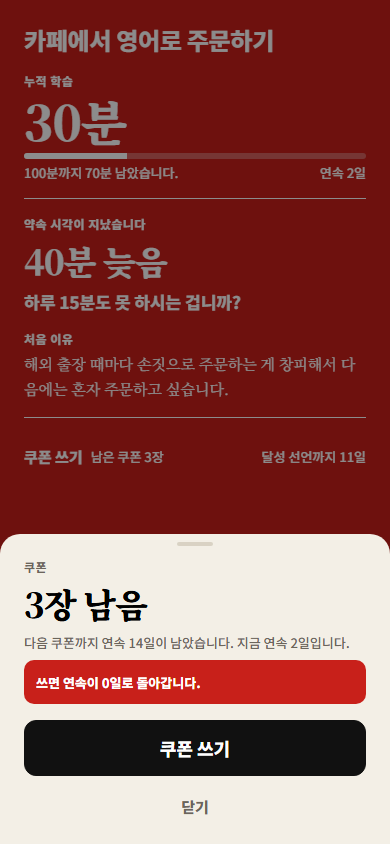
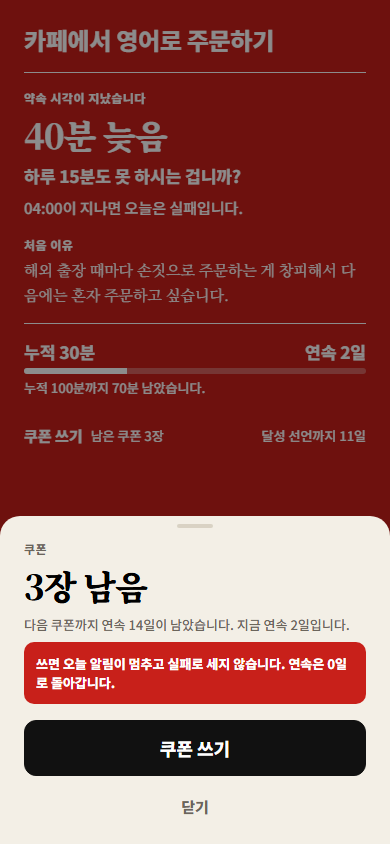
feat(ui): 홈 상태 숫자를 가장 크게, 첫 학습 전 순서 미리보기, 실제 동작에 맞춘 안내 문구
- 홈: 상태 블록을 맨 위로 올리고 누적 학습을 한 줄로 내렸다.
- 첫 학습 전: 0분과 연속 0일을 숨기고 첫 학습 순서와 이번 주 칸 설명을 보인다.
- 쿠폰 효과, 04:00 마감, 대기 중 시작 가능 시점, 첫 B 전환 한 줄을 실제 동작에 맞췄다.
- 쿠폰 쓴 날 홈에 다음 학습 시각을 넣었다.
- 진단 문서, 결정로그 4절, 홈과 쿠폰 화면 상태 다시 촬영.

diff --git a/src/lib/copy.ts b/src/lib/copy.ts
@@ -118,7 +118,7 @@ export const copy = {
   },
 
   home: {
-    total: '누적 학습',
+    totalLine: (m: string) => `누적 ${m}`,
     milestone: (left: number, next: number) => `누적 ${next.toLocaleString()}분까지 ${left.toLocaleString()}분 남았습니다.`,
     streak: (n: number) => `연속 ${n}일`,
     streakLabel: '연속',
@@ -143,6 +143,8 @@ export const copy = {
     restBody: (when: string) => `다음 학습은 ${when}입니다.`,
     waitLabel: '시작까지',
     waitBody: (clock: string, m: number) => `${clock}에 ${m}분 학습합니다.`,
+    // 시작 버튼은 사전 알림(30분 전)부터 생긴다(rules.ts PRE_REMIND_MIN)
+    waitOpen: '30분 전부터 시작하기를 누를 수 있습니다.',
     soonBody: (m: number) => `곧 시작입니다. 오늘은 ${m}분입니다.`,
     graceLabel: '시작 시각이 지났습니다',
     graceBig: (m: number) => `${m}분 경과`,
@@ -150,6 +152,8 @@ export const copy = {
     nagLabel: '약속 시각이 지났습니다',
     nagBig: (m: number) => `${m}분 늦음`,
     nagScratch: (m: number) => `하루 ${m}분도 못 하시는 겁니까?`,
+    // 독촉 60회가 끝나도 판정 시각까지 하면 성공이다(기획서 6절)
+    nagDeadline: '04:00이 지나면 오늘은 실패입니다.',
     reason: '처음 이유',
     resumeLabel: '하다 말고 나가셨습니다',
     resumeBig: (m: number) => `${m}분 남음`,
@@ -176,9 +180,13 @@ export const copy = {
     backNote: '돌아오셨습니다. 연속은 0일부터 다시 시작입니다.',
     // 아래 이번 주 띠(3절)
     week: '이번 주',
+    weekHint: '학습한 날과 못 한 날이 여기 표시됩니다.',
+    // 첫 학습 전 홈의 하루 순서 미리보기
+    firstPlan: '첫 학습 순서',
+    firstPlanReason: '오늘의 이유 쓰기',
     // 첫 홈 코치마크 3개(갭분석 3.1-3). 알림은 시작 시각부터 학습 분만큼 지난 뒤 1분마다 간다(plan.ts)
     tourStart: (m: number) => `이 시각에 학습을 시작합니다. ${m}분 안에 시작하지 않으면 1분마다 알림이 갑니다.`,
-    tourCoupon: '쿠폰을 쓰면 그날은 실패로 세지 않습니다. 연속은 0일이 됩니다.',
+    tourCoupon: '쿠폰은 학습하는 날 홈에서 씁니다. 쓴 날은 알림이 멈추고 실패로 세지 않습니다. 연속은 0일이 됩니다.',
     tourArchive: '학습한 날이 여기 쌓입니다.',
   },
 
@@ -231,7 +239,7 @@ export const copy = {
     idleContinue: '계속하기',
     // 학습 나가기 시트(UXP 3절). 학습 중이라 긁지 않는다. 회고 3분을 채운 뒤에는 leaveFilledBody
     leaveTitle: '학습에서 나가시겠습니까?',
-    leaveBody: (n: number) => `지금 나가면 남은 ${n}분을 채울 때까지 다시 알림이 갑니다.`,
+    leaveBody: (n: number) => `지금 나가면 남은 ${n}분을 채울 때까지 다시 알림이 갑니다. 04:00까지 못 채우면 실패입니다.`,
     leaveFilledBody: '완료하기를 눌러야 오늘 학습이 끝납니다.',
     stay: '계속하기',
     leave: '나가기',
@@ -286,7 +294,7 @@ export const copy = {
     left: (n: number) => `${n}장 남음`,
     next: (d: number) => `다음 쿠폰까지 연속 ${d}일이 남았습니다.`,
     streakNow: (n: number) => `지금 연속 ${n}일입니다.`,
-    warn: '쓰면 연속이 0일로 돌아갑니다.',
+    warn: '쓰면 오늘 알림이 멈추고 실패로 세지 않습니다. 연속은 0일로 돌아갑니다.',
     use: '쿠폰 쓰기',
     close: '닫기',
     none: '남은 쿠폰이 없습니다.',
@@ -296,7 +304,7 @@ export const copy = {
     closedBefore: '첫 학습일부터 쓸 수 있습니다.',
     closedGiveup: '포기 대기 중에는 쓸 수 없습니다.',
     used: '오늘은 쉬십시오.',
-    usedShake: (n: number) => `남은 쿠폰은 ${n}장입니다. 내일은 0일부터입니다.`,
+    usedShake: (n: number) => `오늘 알림은 멈췄습니다. 남은 쿠폰은 ${n}장입니다.`,
     // 완료 화면 쿠폰 획득 카드(갭분석 3.1-11). 숫자는 selectors.couponEarnedOf
     earnedCard: (got: number, next: number) => `연속 ${got}일을 지켜 쿠폰 1장을 받았습니다. 다음은 연속 ${next}일입니다.`,
     home: '홈으로 가기',
@@ -621,9 +629,10 @@ export const copy = {
     rulesTitle: '학습 규칙',
     rulesPlan: '오늘 학습 순서',
     rulesStart: '확인하기',
-    rules: ['화면을 켜 두고 학습하는 동안만 시간이 줄어듭니다.', '2분 동안 입력이 없으면 멈춥니다.', '나가면 남은 시간을 채울 때까지 다시 알림이 갑니다.'],
+    rules: ['화면을 켜 두고 학습하는 동안만 시간이 줄어듭니다.', '2분 동안 입력이 없으면 멈춥니다.', '나가면 남은 시간을 채울 때까지 다시 알림이 갑니다.', '04:00까지 다 채우지 못하면 그날은 실패입니다.'],
     // 6번, 9번 단계 전환 화면의 한 줄
-    phaseB: '상대와 영어로 대화합니다. 막히면 코치가 표현을 알려 줍니다.',
+    // 코치는 영어 답을 고칠 때만 나온다. 한국어로 쓰면 영어로 다시 답하라는 말만 온다(lesson-turn core.ts)
+    phaseB: '상대와 영어로 대화합니다. 틀린 표현은 코치가 고쳐 줍니다.\n모르는 낱말은 쉬운 영어로 풀어 쓰십시오.',
     phaseC: '오늘 배운 표현을 다시 확인합니다.',
     // 7번 첫 코치 모달 아래 한 줄
     coachModal: '닫으면 같은 상황의 새 질문이 옵니다.\n배운 표현을 넣어 답하십시오.',

diff --git a/src/app/(tabs)/index.tsx b/src/app/(tabs)/index.tsx
@@ -14,6 +14,7 @@ import { TextButton } from '@/components/TextButton';
 import { Big, Body, Button, Gauge, Label, Screen, useNow } from '@/components/ui';
 import { WeekStrip } from '@/components/WeekStrip';
 import { copy } from '@/lib/copy';
+import { phaseName, phasePlan } from '@/lib/learn';
 import type { AppGoal } from '@/lib/model';
 import { getExactAlarm, openExactAlarmSettings } from '@/lib/notify';
 import { reportError } from '@/lib/report';
@@ -286,6 +287,7 @@ export default function Home() {
   let middle: React.ReactNode = null;
   let primary: React.ReactNode = null;
   let tourMinutes = 0;
+  let firstPlan: React.ReactNode = null;
   switch (st) {
     case 'before_first': {
       const first = nextStudyDay(goal, goal.firstDay) ?? goal.firstDay;
@@ -303,6 +305,19 @@ export default function Home() {
         </>
       );
       tourMinutes = fs.targetMinutes;
+      // 첫 학습 순서 미리보기. 첫날 A는 수준 확인이다
+      firstPlan = (
+        <View style={{ gap: S.xs }}>
+          <Label>{h.firstPlan}</Label>
+          <Body>{h.firstPlanReason}</Body>
+          {phasePlan(fs.targetMinutes).map((p) => (
+            <View key={p.phase} style={{ flexDirection: 'row', justifyContent: 'space-between', gap: S.sm }}>
+              <Body>{phaseName(p.phase, true)}</Body>
+              <Body>{copy.session.planTime(p.seconds)}</Body>
+            </View>
+          ))}
+        </View>
+      );
       break;
     }
     case 'rest': {
@@ -321,6 +336,7 @@ export default function Home() {
           <Label>{h.waitLabel}</Label>
           <Big>{countdown(c.start - now)}</Big>
           <Body serif>{h.waitBody(fmtClock(s.startMinutes), s.targetMinutes)}</Body>
+          <Body muted>{h.waitOpen}</Body>
           {kst}
         </>
       );
@@ -351,6 +367,7 @@ export default function Home() {
           <Label inverse>{h.nagLabel}</Label>
           <Big inverse>{h.nagBig(Math.floor((now - c.start) / 60_000))}</Big>
           <Text style={[T.h2, { color: C.redInk }]}>{h.nagScratch(s.targetMinutes)}</Text>
+          <Body inverse>{h.nagDeadline}</Body>
           <View style={{ gap: S.xs, marginTop: S.sm }}>
             <Label inverse>{h.reason}</Label>
             <Body inverse serif>
@@ -394,15 +411,18 @@ export default function Home() {
       );
       break;
     }
-    case 'coupon':
+    case 'coupon': {
+      const next = nextStudyDay(goal, addDays(today, 1));
       middle = (
         <>
           <Label>{h.couponLabel}</Label>
           <Big>{h.couponBig(goal.coupons)}</Big>
           <Body serif>{h.couponBody(daysToNextCoupon(goal))}</Body>
+          {next ? <Body muted>{copy.learn.nextStudy(whenOf(goal, next, today))}</Body> : null}
         </>
       );
       break;
+    }
     case 'giveup':
       middle = (
         <>
@@ -450,24 +470,29 @@ export default function Home() {
           {goal.name}
         </Text>
 
-        <View style={{ gap: S.xs }}>
-          <Text style={[T.label, { color: sub }]}>{h.total}</Text>
-          <Text style={[T.hero, { color: ink }]}>{copy.unit.minutes(total)}</Text>
-          <Gauge ratio={ms.ratio} inverse={red} />
-          <View style={{ flexDirection: 'row', justifyContent: 'space-between', gap: S.sm }}>
-            <Text style={[T.small, { color: sub, flexShrink: 1 }]}>{h.milestone(ms.next - total, ms.next)}</Text>
-            <Text style={[T.small, { color: ink }]}>{h.streak(streak)}</Text>
-          </View>
-        </View>
-
         {note ? <Text style={[T.small, { color: ink }]}>{note === 'failed' ? h.failedNote : h.backNote}</Text> : null}
 
+        {/* 상태 블록이 홈에서 가장 크다. 누적은 그 아래 한 줄로 둔다(디자인 고도화 D1) */}
         <View style={{ paddingVertical: S.md, borderTopWidth: 1.5, borderBottomWidth: 1.5, borderColor: ink }}>
           {/* 상태가 바뀌면 가운데 블록이 200ms에 바뀐다(갭분석 M15) */}
           <StateBlock k={st} bg={red ? C.red : C.bg}>
             {middle}
           </StateBlock>
         </View>
+
+        {firstPlan}
+
+        {/* 첫 학습 전에는 누적과 연속이 0이라 보이지 않는다 */}
+        {st === 'before_first' ? null : (
+          <View style={{ gap: S.xs }}>
+            <View style={{ flexDirection: 'row', justifyContent: 'space-between', gap: S.sm }}>
+              <Text style={[T.h2, { color: ink }]}>{h.totalLine(copy.unit.minutes(total))}</Text>
+              <Text style={[T.h2, { color: ink }]}>{h.streak(streak)}</Text>
+            </View>
+            <Gauge ratio={ms.ratio} inverse={red} />
+            <Text style={[T.small, { color: sub }]}>{h.milestone(ms.next - total, ms.next)}</Text>
+          </View>
+        )}
 
         {st === 'giveup' ? null : (
           <View style={{ flexDirection: 'row', justifyContent: 'space-between', alignItems: 'center', gap: S.sm }}>
@@ -490,6 +515,7 @@ export default function Home() {
 
         {/* 빨강 화면은 할 일 하나만 보인다. 빨강 위에서는 실패 칸 빨강이 안 보인다 */}
         {red ? null : <WeekStrip days={state.days} goal={goal} today={today} />}
+        {st === 'before_first' ? <Text style={[T.small, { color: sub }]}>{h.weekHint}</Text> : null}
       </Screen>
       {blend > 0 ? <Veil key={blend} /> : null}
       <Animated.View pointerEvents="none" style={[StyleSheet.absoluteFill, { backgroundColor: PALETTES.ivory.onRed }, flashStyle]} />

diff --git a/docs/디자인고도화_진단_2026-10-28.md b/docs/디자인고도화_진단_2026-10-28.md
@@ -1,0 +1,91 @@
+# 디자인 고도화 진단 (2026-10-28)
+
+`docs/메가프롬프트_디자인고도화.md`의 A~C단계 결과다. 결정과 반영 내역은 `docs/결정로그.md` 4절에 있다.
+
+## 0. 전제와 바로잡은 것
+
+- 판정은 지금 코드 기준이다. `docs/화면상태/`의 auth, onboarding, goal-new 캡처는 10-19에 찍혀 현재 문구와 다르다.
+- 메가프롬프트 2절의 "0분과 21시간 59분이 같은 크기"는 사실과 다르다. 0분은 48px(T.hero), 남은 시간은 34px(T.big)였다. 새 사용자에게 의미 없는 숫자가 더 컸다.
+- 목표 정하기 2/3의 "시작 시각과 분이 같은 상자" 지적은 웹에만 맞다. 네이티브는 "22:00 ›" 버튼 하나다(TimePicker.tsx).
+
+## 1. A. 처음 쓰는 사람의 막힘
+
+페르소나: 수능 뒤 영어를 놓은 30대 직장인. 앱 설명을 읽지 않았다. 경로 셋을 코드와 캡처로 따라갔다.
+
+| # | 경로 | 화면 | 막히는 지점 | 사용자가 모르는 것 | 심각도 | 근거 |
+|---|---|---|---|---|---|---|
+| 1 | 3 | 홈 독촉, 알림 | 독촉 60분이 끝나면 알림이 멈추고 "N분 늦음"만 는다 | 04:00까지 하면 성공이라는 것 | 포기로 이어짐 | copy.ts home.nag*, rules.ts DAY_BOUNDARY_HOUR |
+| 2 | 3 | 쿠폰 시트 | 경고가 "쓰면 연속이 0일로 돌아갑니다." 하나뿐 | 실패로 안 세고 알림이 멈춘다는 효과 | 포기로 이어짐 | coupon.tsx, copy.ts coupon.warn |
+| 3 | 2 | B 상황 대화 | 전환 한 줄이 "막히면 코치가 표현을 알려 줍니다."라고 약속 | 코치는 영어 답을 고칠 때만 나온다. 한국어로 쓰면 다시 답하라는 말만 온다 | 포기로 이어짐 | copy.ts tips.phaseB, lesson-turn core.ts |
+| 4 | 1 | 가입 2 | 비밀번호 확인 칸이 없고 버튼이 "로그인하기" | 지금 가입 중이라는 것. 오타 나면 그 이메일을 못 씀 | 포기로 이어짐 | copy.ts auth.verify, passwordSub |
+| 5 | 1~3 | 홈 전 상태 | 48px가 늘 누적 학습 | 지금 가장 급한 숫자 | 헤맴 | index.tsx T.hero |
+| 6 | 1 | 홈 첫 학습 전 | 할 일이 없다는 말, 하루 순서, 빈 이번 주 칸의 뜻이 없음 | 내일 무엇을 하는지 | 헤맴 | index.tsx before_first |
+| 7 | 1 | 홈 코치마크 ② | 쿠폰 안내가 첫 학습 전에는 없는 버튼을 설명 | 쿠폰을 어디서 쓰는지 | 헤맴 | copy.ts tourCoupon |
+| 8 | 2 | 홈 대기 | 시작 버튼이 없고 언제 생기는지 안 씀 | 30분 전부터 누를 수 있다는 것 | 헤맴 | index.tsx waiting |
+| 9 | 2 | 나가기 시트, 규칙 모달 | 다시 알림이 간다는 말만 있음 | 04:00까지 못 채우면 실패 | 헤맴 | copy.ts leaveBody, tips.rules |
+| 10 | 1 | 목표 1/3 | 나가는 길이 없음. 뒤로가 조용히 무시됨 | 나중에 다시 와도 되는지 | 헤맴 | goal/new.tsx 69-79 |
+| 11 | 1 | 목표 2/3 | 기간 상자와 칩이 같은 값을 받음. 칩, 상자, 입력창 모양이 같음. 하루 학습이 첫 화면 아래 | 무엇을 눌러야 하는지 | 헤맴 | PlanFields.tsx |
+| 12 | 2 | 회고 | 질문이 영어뿐 | 질문 뜻과 쓸 표현 | 헤맴 | _shared/copy.ts RETRO_Q1 |
+| 13 | 3 | 쿠폰 쓴 날 홈 | 다음 학습 시각이 없음 | 내일 몇 시인지 | 헤맴 | index.tsx coupon |
+| 14 | 3 | 설정 | 포기가 "목표 관리" 안 바닥에 있음 | 그만두는 길 | 헤맴(의도된 마찰일 수 있음) | settings/goal.tsx |
+| 15 | 3 | 기록 달력, 상세 | 빈 칸 세 종류에 범례 없음. 숫자에 라벨 없음 | 칸과 숫자의 뜻 | 헤맴, 사소 | archive.tsx, archive/[key].tsx |
+| 16 | 2 | 홈 이탈 | 회고 3분을 채웠는데 "1분 남음" | 버튼만 누르면 끝난다는 것 | 사소 | index.tsx Math.max(1, left) |
+
+### 용어 충돌 (같은 대상, 이름 3개 이상)
+
+| 대상 | 화면에 뜬 이름 |
+|---|---|
+| 시작 시각 | 시작 시각, 약속 시각, 약속한 시각, 학습 시각, 학습 시작 |
+| 쿠폰 쓴 날 | 쿠폰, 오늘은 쉽니다, 오늘은 쉬십시오. "쉽니다"가 쉬는 요일과 겹친다 |
+| 늦었을 때 오는 것 | 알림, 독촉, 연락 |
+| 목표 이름 | 목표, 목표 이름, 이름 |
+| 하루 학습량 | 하루 15분, 하루 학습 분, 하루 학습 |
+| 그날 배운 것 | 표현, 항목, 배운 말, expression |
+
+## 2. B. 레퍼런스와 화면별 최우선
+
+앱스토어 lookup API로 9개 앱 69장을 내려받아 봤다. 듀오링고, 스픽, 케이크, 토스, 애플 피트니스, Streaks, Forest, HabitKit, 챌린저스.
+
+| 볼 것 | 본 것 |
+|---|---|
+| 상태에 따라 무엇을 키우나 | 스픽 홈은 다음 수업 하나와 시작하기 하나다. 연속 일수는 오른쪽 위 작은 칩이다. 큰 숫자(100 연속일)는 수업을 끝낸 순간에만 키운다. 케이크 목표 화면은 "오늘 9분 50초 학습 중"을 상태 문장으로 둔다 |
+| 처음 보는 요소 설명 | 스픽은 "불꽃" 라벨 옆 ⓘ와 한 줄 "불꽃 유지를 위해 내일도 꼭 수업을 완료해 주세요". 케이크는 "14일 연속 불꽃 켜기 3/14" 막대가 목표를 말한다. 달력에 연속을 지켜 준 날을 방패로 따로 표시한다 |
+| 누르는 것, 입력, 정보 | 듀오링고 주 버튼은 폭 전체 채움, 선택지는 테두리 카드, 정보는 바탕 위 글자. Streaks 설정은 "라벨 : 값 ›" 행. Forest 시각은 채운 값 칩, 요일은 원형 토글 |
+| 큰 숫자 하나를 고르는 기준 | 지금 행동을 바꾸는 숫자 하나. 토스 계좌 목록은 같은 크기, 증권 상세만 총액 하나를 키운다. 애플 피트니스는 목표 대비 "665/750" |
+
+### 화면별 최우선
+
+| 화면 | 유형 | 최우선 1개 | 빼기 |
+|---|---|---|---|
+| 홈 첫 학습 전 | A | 첫 학습까지 남은 시간과 시각 | 누적 0분, 연속 0일 |
+| 홈 대기, 임박 | A | 시작까지 남은 시간 | 누적은 한 줄로 |
+| 홈 유예, 독촉 | A | 늦은 분과 시작하기, 04:00 마감 | 이번 주 띠(기존대로) |
+| 홈 이탈 | A | 남은 분과 이어서 하기 | |
+| 홈 완료, 쿠폰 쓴 날 | A | 오늘 결과와 다음 학습 시각 | |
+| 홈 포기 대기 | A | 확정까지 남은 시간과 철회 | |
+| 목표 정하기 2/3 | C | 이 약속이 뜻하는 것(요일, 시각, 분, 횟수) | 기간 상자 중복 |
+| 오늘의 이유 | C | 입력칸 | |
+| 학습 A/B/C, 회고 | B | 지금 문항과 남은 시간 | |
+| 완료 | A | 오늘 분 | |
+| 기록 | A | 달력 | |
+
+처음 안내는 그 자리 블록으로 푼다. 막힘 6은 첫 학습 순서 블록과 빈 이번 주 한 줄, 막힘 7은 코치마크 문구, 막힘 8은 대기 상태 한 줄로 풀었다.
+
+## 3. C. 규칙 누락 점검
+
+| 규칙(출처) | 어긋나던 화면 | 처리 |
+|---|---|---|
+| 같은 무게 금지(mobile-app-ui-design Anti-Patterns) | 홈 전 상태 | 누적을 한 줄로 내림 |
+| 빈 상태에 안내(ui-ux-pro-max Empty States) | 홈 첫 학습 전 이번 주 띠 | 한 줄 추가 |
+| 사용자 단계별 안내(Personalization by User Stage) | 홈 첫 학습 전 | 순서 미리보기, 0 숫자 숨김 |
+| 입력은 입력처럼 보이게(Input Affordance) | 목표 2/3 | 시안 C로 승인 대기 |
+
+기존 체계와 부딪쳐 따르지 않는 권고:
+- 글자 크기 4종 이하. 테마가 7종(hero, big, h1, h2, body, small, label)을 정본으로 쓴다.
+- 튜토리얼은 건너뛸 수 있게. 첫 학습 규칙 모달은 건너뛰기가 없는 것이 결정된 설계다(갭분석 3.1-4).
+- 완료 축하 강조(Peak-End). 격려를 아끼는 기획서 원칙과 부딪친다.
+
+## 4. 안 본 것
+
+- 실기기(키보드, 알림 탭 진입). 웹 캡처와 코드로만 봤다.
+- 학습 화면 캡처는 다시 찍지 않았다. 바뀐 것은 문구(B 전환 한 줄, 규칙 모달, 나가기 시트)뿐이다.

diff --git a/WORK_LOG.md b/WORK_LOG.md
@@ -75,6 +75,14 @@
 - 실기기 확인 목록과 오너 결정 필요 항목은 `docs/HANDOFF.md` 5절에 있다.
 - 합치기: `feat/mvp-launch` 뒤로 새 커밋이 없어 fast-forward로 합칠 수 있다. 운영 DB에는 `20261019000100_fixed_kst.sql`을 기존 마이그레이션 다음에 올린다.
 
+## 디자인 고도화 (2026-10-28, `feat/ux-polish`)
+
+`docs/메가프롬프트_디자인고도화.md` A~C를 마치고 D 일부를 반영했다. 진단은 `docs/디자인고도화_진단_2026-10-28.md`, 결정은 `docs/결정로그.md` 4절.
+
+- 반영: 홈 상태 블록을 맨 위로 올리고 누적 학습을 한 줄로 내렸다. 첫 학습 전 홈은 0 숫자를 숨기고 첫 학습 순서를 보인다. 쿠폰 효과, 04:00 마감, 대기 중 시작 가능 시점, 첫 B 전환 한 줄을 실제 동작에 맞게 고쳤다.
+- 검증: typecheck, lint, 앱 테스트 257개, check:static 통과. 로컬 Supabase와 웹 8102로 홈 13상태와 쿠폰 6상태를 다시 찍어 `docs/화면상태/`에 넣었다. 실행 때 환경변수로 로컬 주소를 넘겨 `.env.local`은 건드리지 않았다.
+- 승인 대기: 결정로그 4절 마지막 행.
+
 ## 로컬에서 직접 확인하는 법
 
 운영 서버가 없으므로 이 PC 안에서만 돌려 본다. AI는 고정 응답이다.
